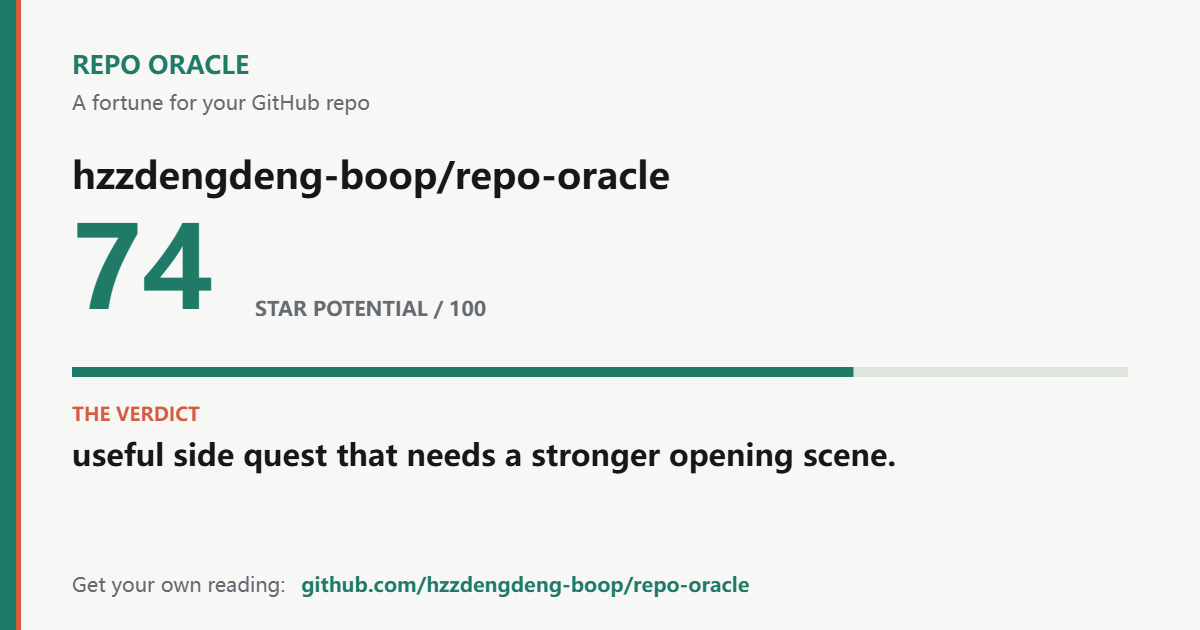
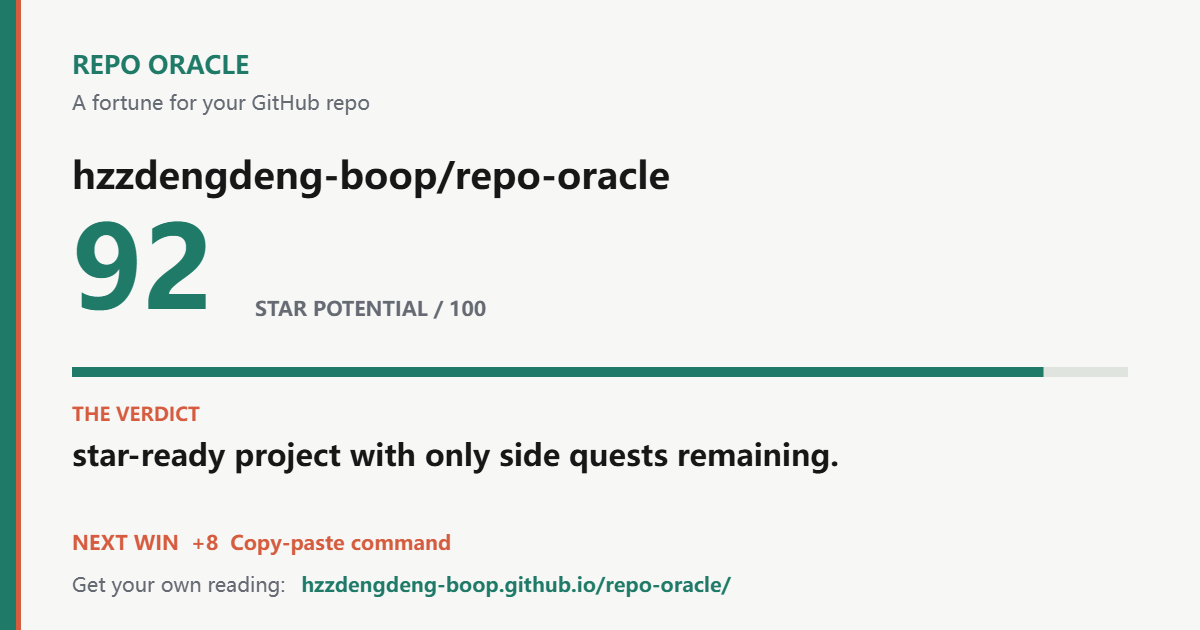
Put the next win on shareable reports

diff --git a/src/share-card.js b/src/share-card.js
@@ -21,6 +21,18 @@ export function fixPlanMarkdown(result, permalink) {
   ].join("\n");
 }
 
+export function shareTextFor(result, permalink) {
+  return [
+    `Repo Oracle read ${result.title}:`,
+    `"${result.personality}."`,
+    `${result.scoreTitle}: ${result.score}/100`,
+    ...(result.readmeOnly ? ["GitHub API unavailable; this reading uses the README only."] : []),
+    `Biggest curse: ${result.curse}`,
+    ...(result.opportunity ? [`Next win: +${result.opportunity.gain} for ${result.opportunity.label}.`] : []),
+    `Read the report: ${permalink}`
+  ].join("\n");
+}
+
 export function downloadCard(result, permalink) {
   const canvas = document.createElement("canvas");
   canvas.width = WIDTH;
@@ -66,6 +78,13 @@ export function downloadCard(result, permalink) {
   ctx.font = "bold 30px system-ui, sans-serif";
   const verdict = wrapText(ctx, `${result.personality}.`, 1056, 2);
   verdict.forEach((line, index) => ctx.fillText(line, 72, 443 + index * 38));
+
+  ctx.fillStyle = "#d55c3f";
+  ctx.font = "bold 20px system-ui, sans-serif";
+  const nextWin = result.opportunity
+    ? `NEXT WIN  +${result.opportunity.gain}  ${result.opportunity.label}`
+    : "ALL CORE SIGNALS EARNED";
+  ctx.fillText(fitText(ctx, nextWin, 1056), 72, 535);
 
   ctx.fillStyle = "#666a73";
   ctx.font = "20px system-ui, sans-serif";

diff --git a/src/app.js b/src/app.js
@@ -1,6 +1,6 @@
 import { analyze, fetchRepo, parseRepoUrl } from "./analyzer.js?v=20261012";
 import { pickExample } from "./examples.js";
-import { badgeMarkdown, downloadCard, fixPlanMarkdown } from "./share-card.js?v=20261010";
+import { badgeMarkdown, downloadCard, fixPlanMarkdown, shareTextFor } from "./share-card.js?v=20261013";
 
 const form = document.querySelector("#repo-form");
 const input = document.querySelector("#repo-url");
@@ -139,14 +139,7 @@ function render(result) {
     + penalties.map(({ label, points }) => ` - ${points} ${label.toLowerCase()}`).join("");
   const rawScore = base + earned - penalties.reduce((total, penalty) => total + penalty.points, 0);
   scoreMath.textContent = `${rawScore < 0 ? `max(0, ${expression})` : expression} = ${result.score}`;
-  shareText.value = [
-    `Repo Oracle read ${result.title}:`,
-    `"${result.personality}."`,
-    `${result.scoreTitle}: ${result.score}/100`,
-    ...(result.readmeOnly ? ["GitHub API unavailable; this reading uses the README only."] : []),
-    `Biggest curse: ${result.curse}`,
-    `Read the report: ${shareUrl(currentRepo)}`
-  ].join("\n");
+  shareText.value = shareTextFor(result, shareUrl(currentRepo));
 }
 
 function renderError(error) {

diff --git a/index.html b/index.html
@@ -151,6 +151,6 @@ Repo Oracle is ready to inspect a repository.</textarea
       </section>
     </main>
 
-    <script type="module" src="src/app.js?v=20261012"></script>
+    <script type="module" src="src/app.js?v=20261013"></script>
   </body>
 </html>

diff --git a/README.md b/README.md
@@ -21,6 +21,7 @@ The score line shows earned points and any README or badge deductions.
 ![Example Repo Oracle fortune card](examples/fortune-card.png)
 
 Reports have shareable links, and you can download a 1200 x 630 PNG card.
+Shared text and cards include the highest-impact next win, not just the score.
 You can also copy a live-report badge straight into your own README.
 The three recommended fixes can be copied as a Markdown checklist for an issue.
 Shared links include a large social preview, so the joke survives outside the app.
